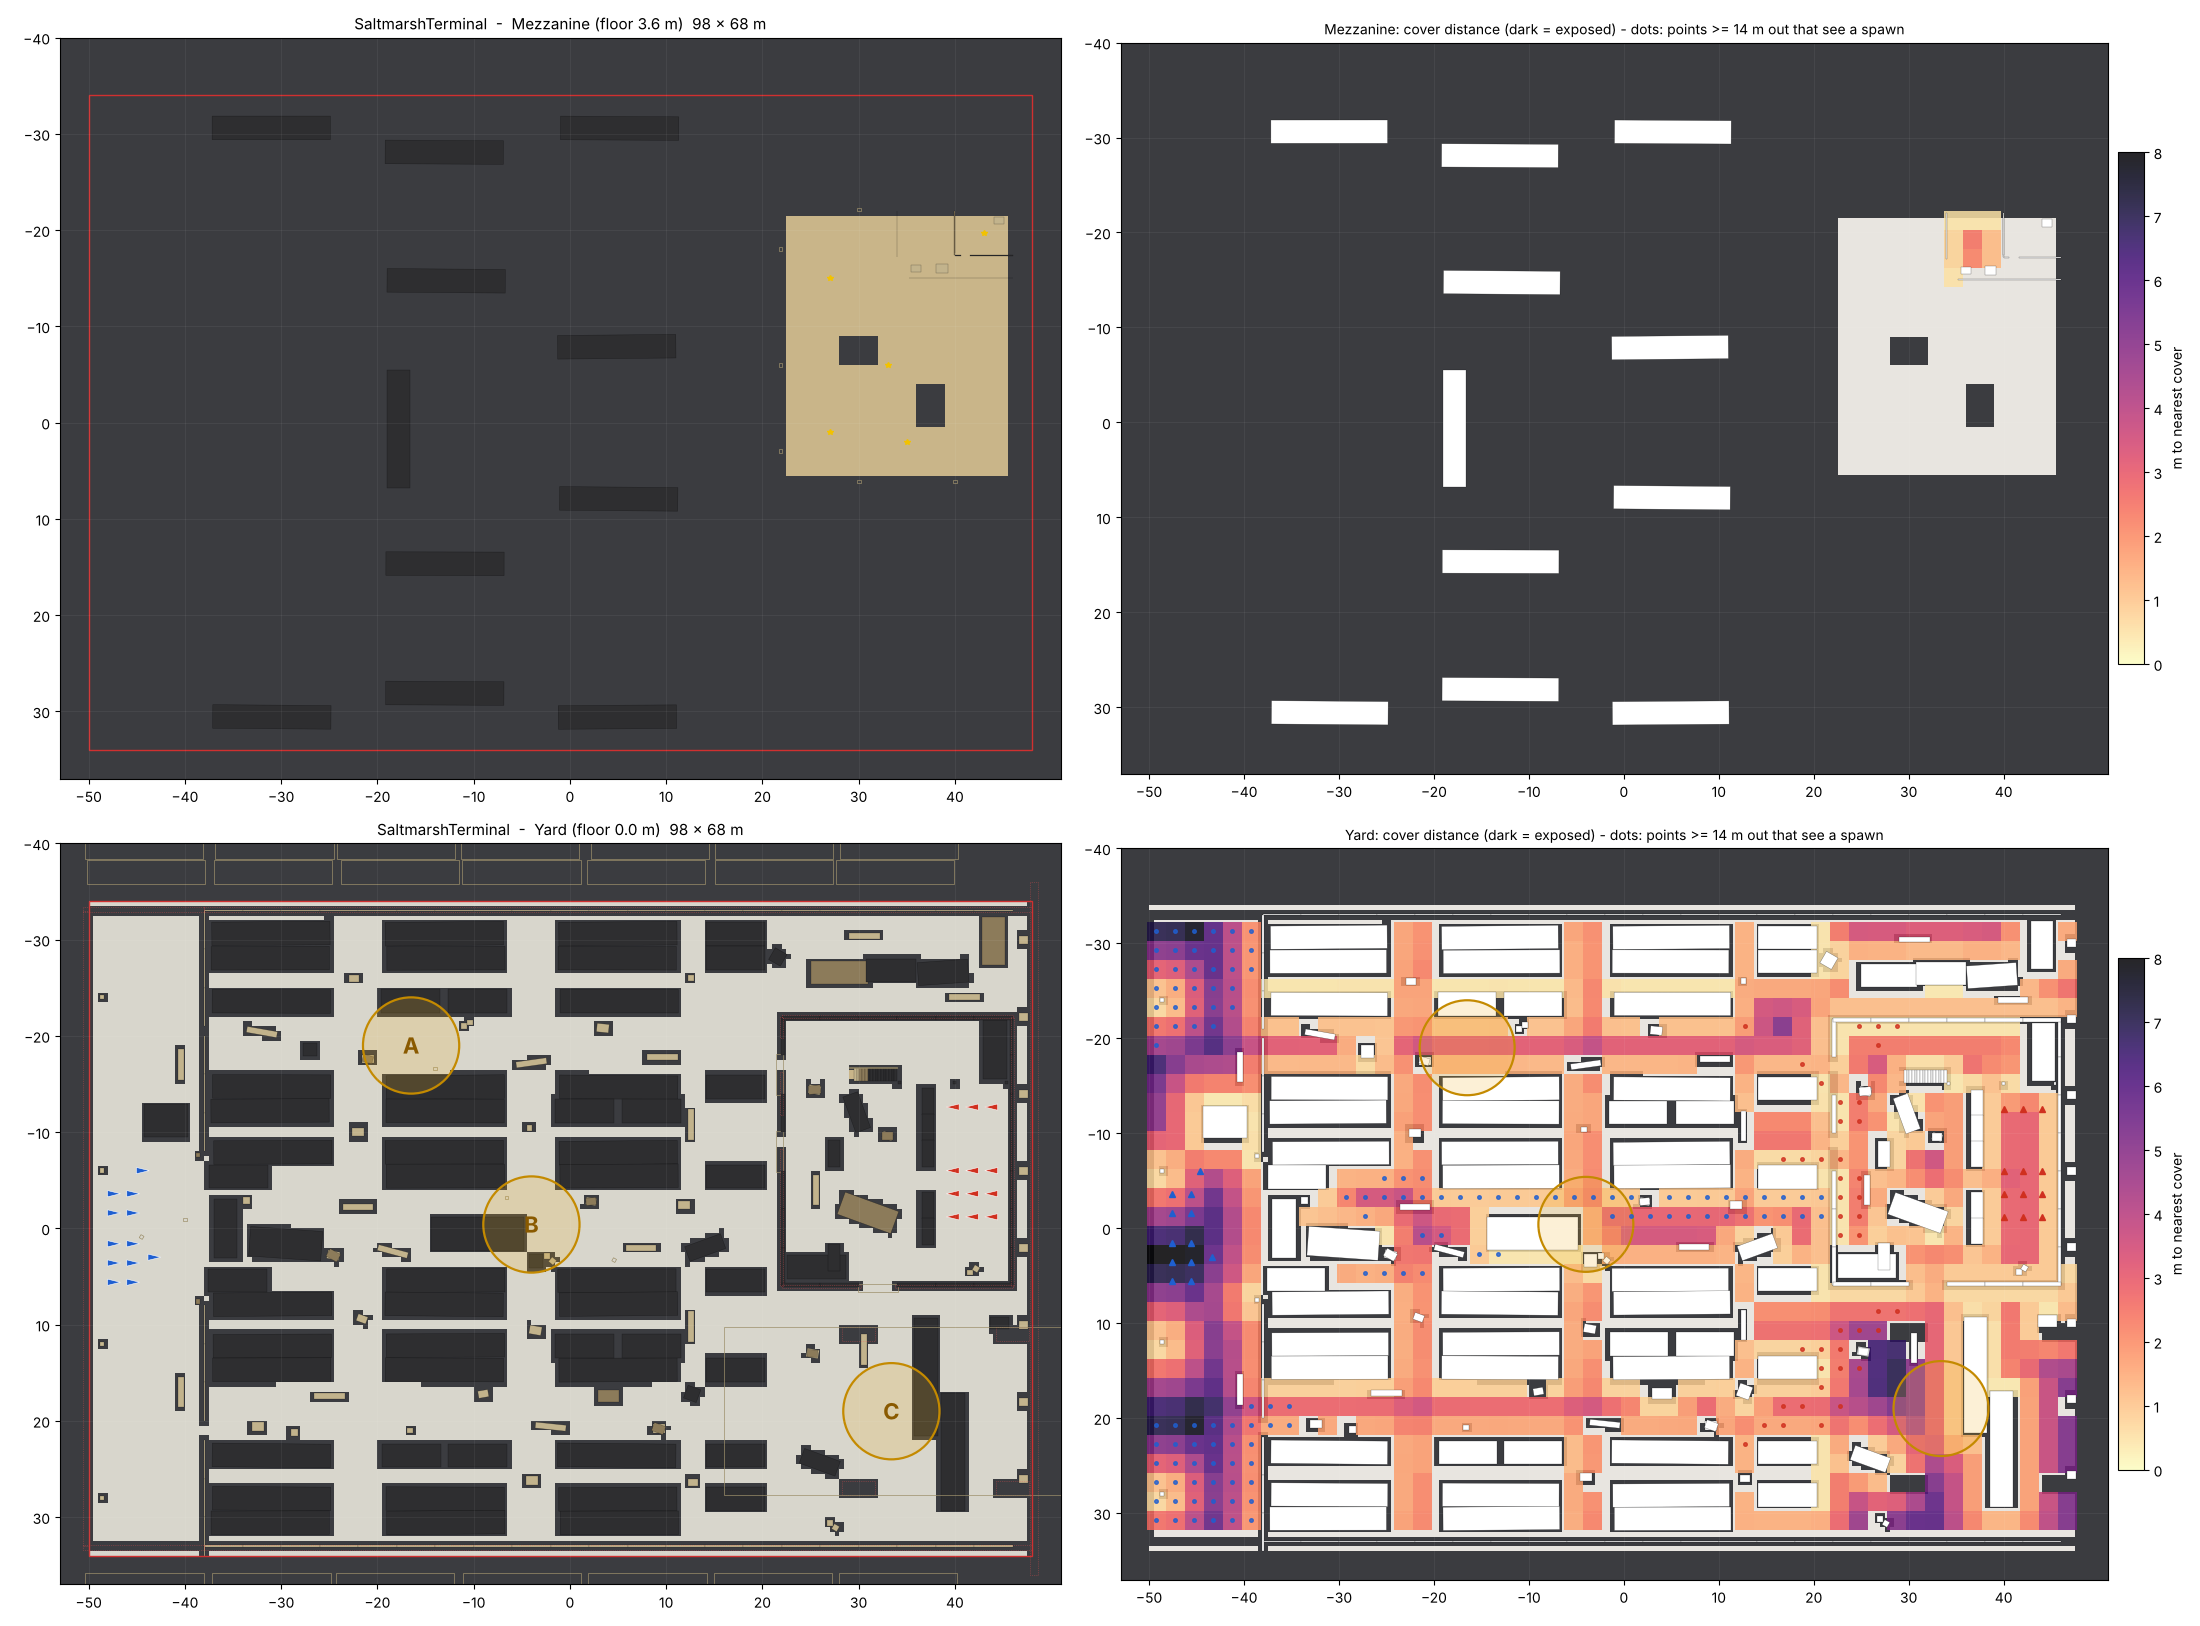
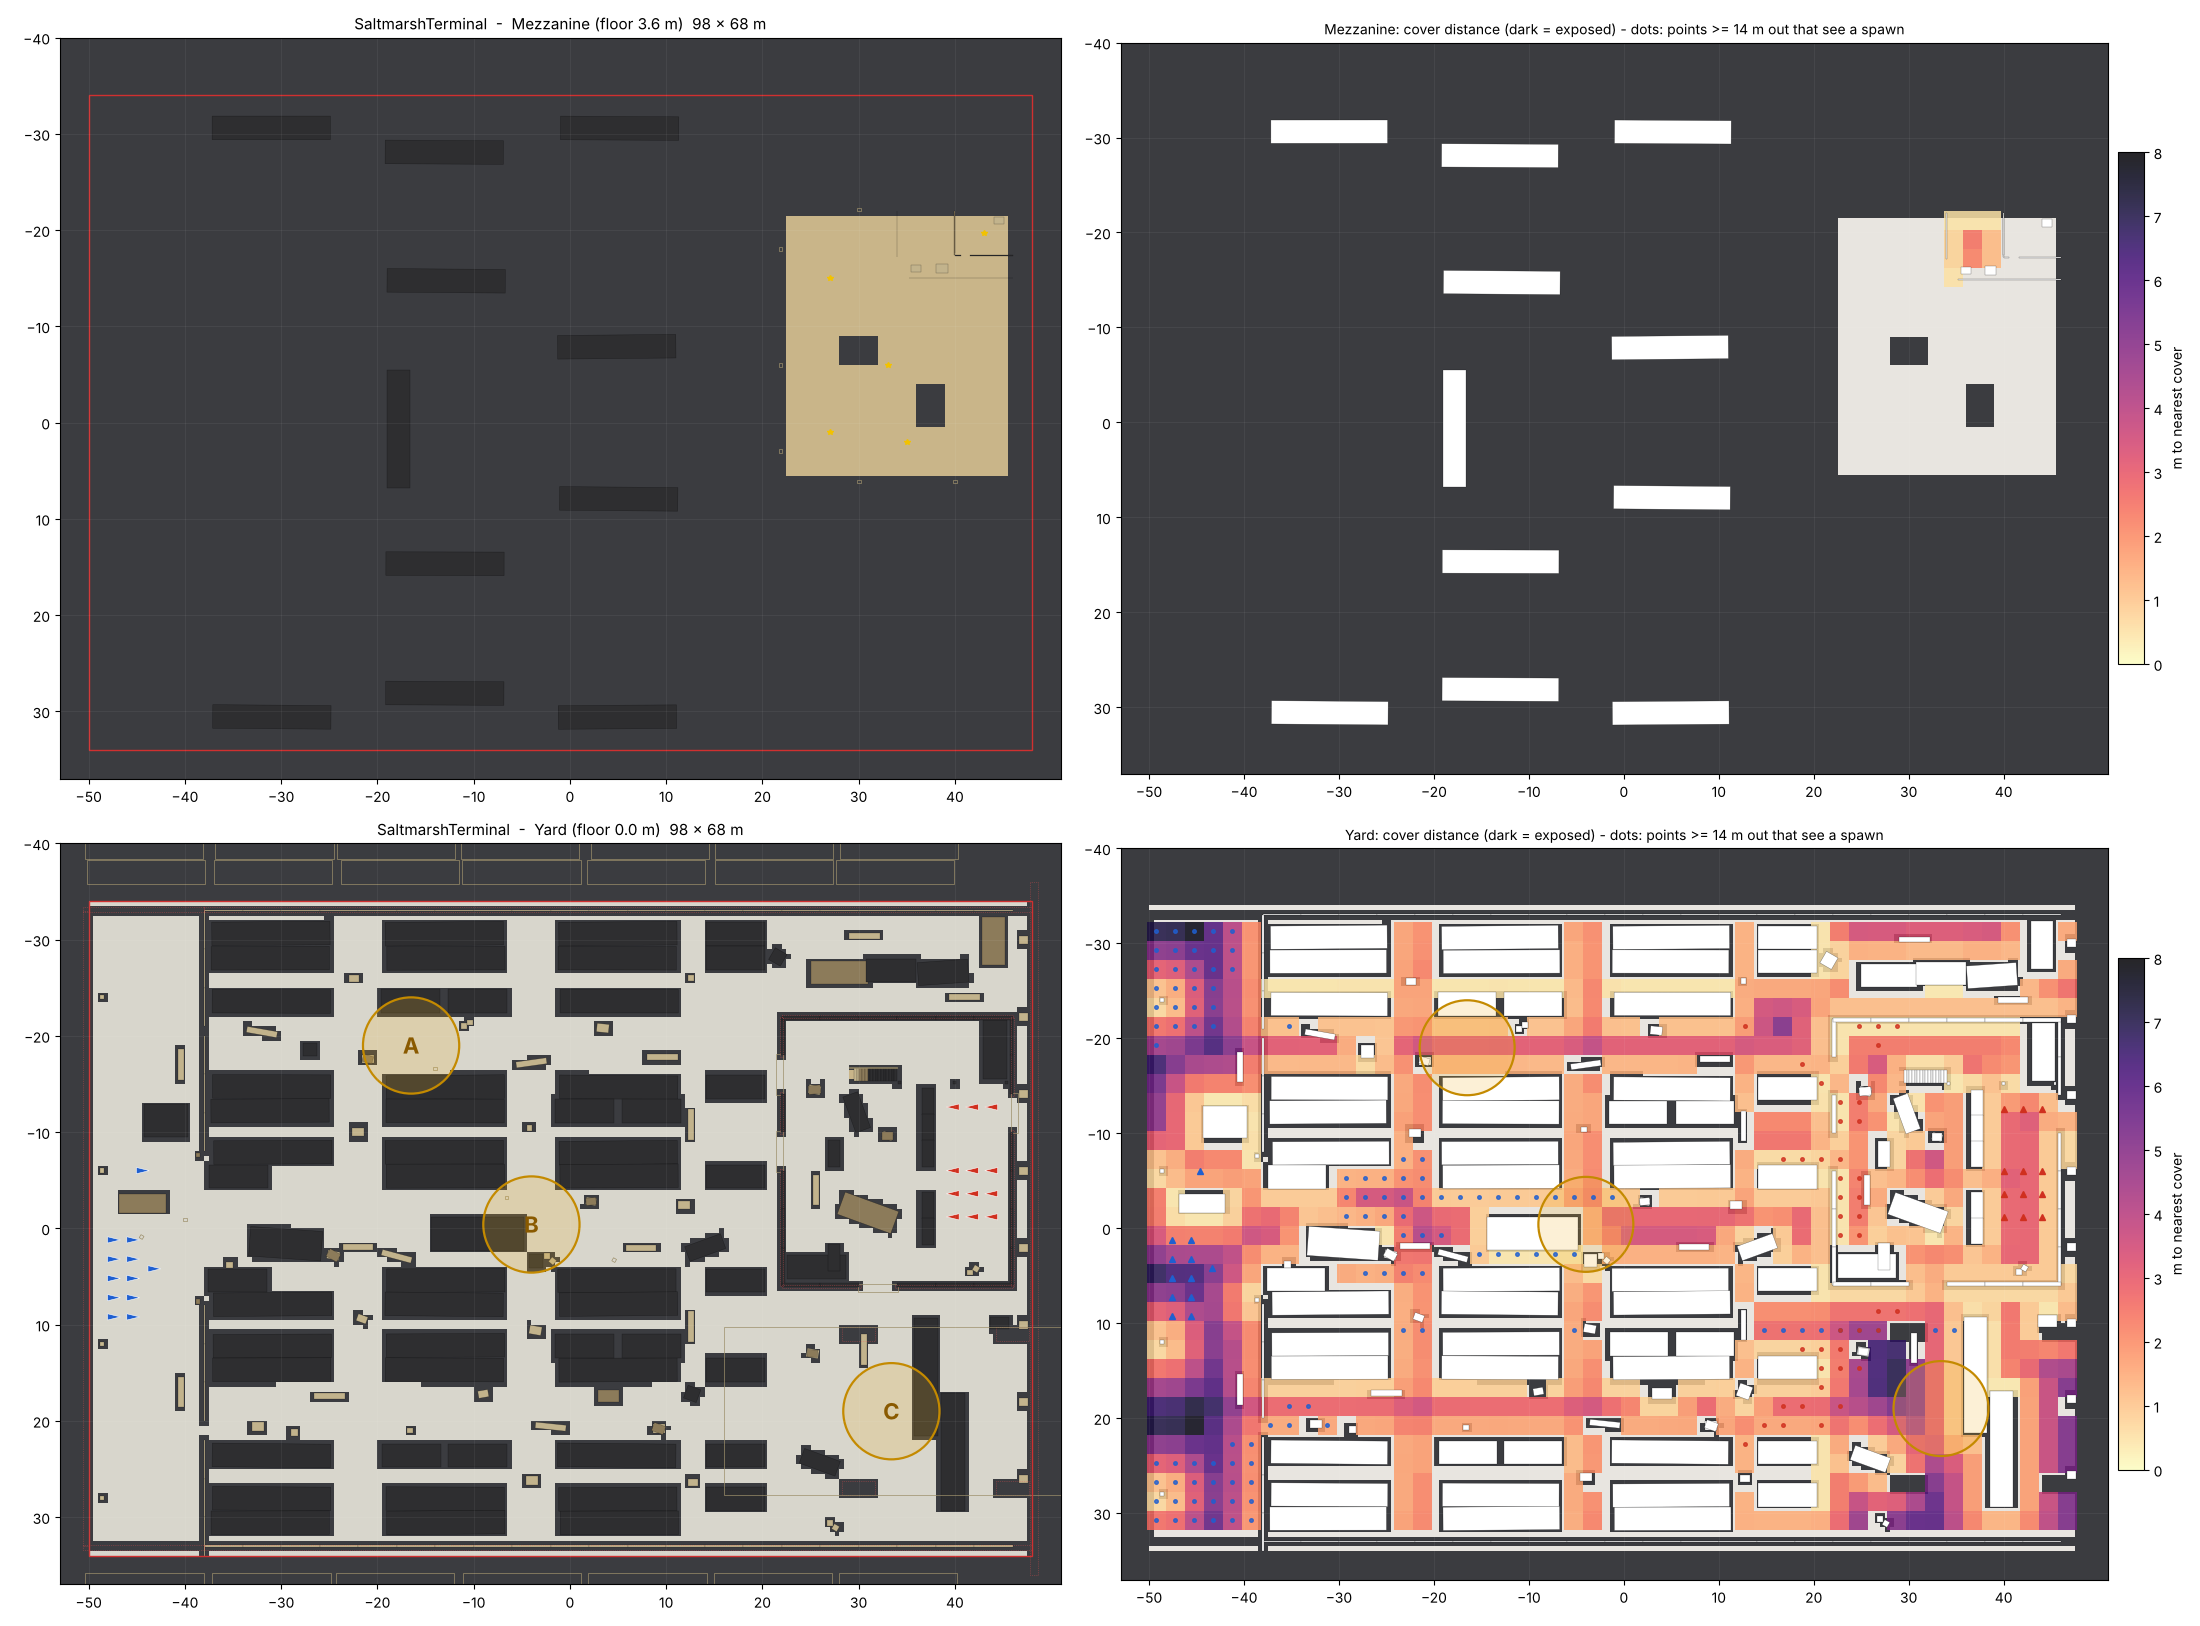
WIP: agents in progress
Claude-Session: https://claude.ai/code/session_0118nFYumEjG82mLGbGwmWwA

diff --git a/Content/Python/airsoft_setup_lib/layout_harbor.py b/Content/Python/airsoft_setup_lib/layout_harbor.py
@@ -216,11 +216,15 @@ def build(L=None):
     # Blue / Andrew starts on the gate apron (the first one is Andrew's story start beside the booth)
     starts = [(-44.6, -6.0)]
     for x in (-47.6, -45.6):
-        for y in (-3.6, -1.6, 1.6, 3.6, 5.6):
+        for y in (1.2, 3.2, 5.2, 7.2, 9.2):
             starts.append((x, y))
-    starts.append((-43.4, 3.0))
+    starts.append((-43.4, 4.2))
     for (x, y) in starts:
         it.append(L.start(x, y, "Blue", 0.0))
+    # Andrew's '69 Fastback beside the booth, nose east down the gate lane. The ending camera drives it off: the
+    # strip y -3.6..-1.6 stays clear for 30 m ahead (through the gate, under the barrier arm's tip, down the
+    # central lane's north edge to x -12). Tagged "Car_Hero" (+ "Car_Hero_Gate") for the cutscene code.
+    it.append(prop("Car_Hero", -44.4, -2.6, 0.0, 0.0, tint="HeroGunmetal", pieces=PARKED, tags=["Car_Hero", "Car_Hero_Gate"]))
 
     # ---------------------------------------------------------------- yard containers + lane cover
     it += _container_stacks(L, rng)
@@ -308,16 +312,14 @@ def _lane_cover(L, rng):
     # the box hangs under the spreader (SpreaderBottom: local +X 7.8 m, z 5.82 m; yaw 180 puts it at -X), across
     # the lane with 3.2 m of headroom under it
     it.append(prop("Harbor_Container40", rs_x - 7.8, rs_y, 5.82 - C40_H, 90.0, tint="Rust"))
-    # a 20 ft box parked across the lane mouth inside the gate: screens the gate apron from the length of the lane
-    it.append(prop("Container_20ft", -35.8, 0.0, 0.0, 90.0, tint="Sand"))
     it += [prop("BoxTruck", -29.5, 1.6, 0.0, 4.0, tint="Grey", pieces=PARKED),
-           prop("Garage_JerseyBarrier", -22.0, -2.2, 0.0, 0.0), prop("Garage_JerseyBarrier", -18.4, 2.4, 0.0, 15.0),
+           prop("Garage_JerseyBarrier", -22.0, 1.9, 0.0, 0.0), prop("Garage_JerseyBarrier", -18.0, 2.9, 0.0, 15.0),
            prop("PalletStack", -24.6, 2.8, 0.0, 12.0), prop("PalletStack", -24.6, 2.8, 0.58, 30.0),
            prop("OilDrum", -2.4, 2.9, 0.0, 0.0, tint="Red"), prop("OilDrum", -1.8, 3.4, 0.0, 40.0, tint="Red"),
            prop("Crate_Wood", 2.2, -2.8, 0.0, 8.0), prop("Crate_Wood", 2.2, -2.8, 0.62, -6.0),
            prop("Garage_JerseyBarrier", 7.4, 2.0, 0.0, 0.0), prop("PalletStack", 11.8, -2.4, 0.0, 0.0),
            prop("Harbor_Forklift", 14.6, 1.8, 0.0, 160.0), prop("Garage_Cone", -6.6, -3.2, 0.0, 0.0),
-           prop("Garage_Cone", 4.6, 3.3, 0.0, 30.0), prop("TireStack", -33.6, -2.9, 0.0, 0.0)]
+           prop("Garage_Cone", 4.6, 3.3, 0.0, 30.0), prop("TireStack", -35.4, 3.8, 0.0, 0.0)]
     # north lane (y -22..-16)
     it += [prop("Garage_JerseyBarrier", -32.0, -20.4, 0.0, 10.0), prop("PalletStack", -21.0, -17.6, 0.0, 0.0),
            prop("Crate_Wood", -21.0, -17.6, 0.58, 15.0), prop("OilDrum", -11.0, -21.0, 0.0, 0.0, tint="Blue"),
@@ -355,14 +357,16 @@ def _warehouse(L, rng):
     it = []
     x0, x1, y0, y1 = WH_X0, WH_X1, WH_Y0, WH_Y1
     it.append(slab(x0, y0, x1, y1, -0.05, 0.02, "ConcreteFloor", name="ShedFloor", tint="Grey"))
-    # west wall (yard side, outside = -X): 7 bays, roller doors at bays 1 and 3 (y -18, -10)
+    # west wall (yard side, outside = -X): 7 bays, roller doors at bays 1 and 3 (y -16, -8)
     for i in range(7):
         yc = y0 + 2.0 + i * 4.0
         aid = "Harbor_RollerDoor" if i in (1, 3) else "Harbor_CladdingPanel_4m"
         it.append(prop(aid, x0, yc, 0.0, 180.0, tint=None if aid == "Harbor_RollerDoor" else "Teal"))
-    # east wall (quay side, outside = +X): solid
+    # east wall (quay side, outside = +X): the Keeper's way out, a roller door at bay 2 (y -12) onto the quay and
+    # the freighter's gangway
     for i in range(7):
-        it.append(prop("Harbor_CladdingPanel_4m", x1, y0 + 2.0 + i * 4.0, 0.0, 0.0, tint="Teal"))
+        aid = "Harbor_RollerDoor" if i == 2 else "Harbor_CladdingPanel_4m"
+        it.append(prop(aid, x1, y0 + 2.0 + i * 4.0, 0.0, 0.0, tint=None if aid == "Harbor_RollerDoor" else "Teal"))
     # north / south walls (outside = -Y / +Y): 6 bays; a roller door on the south side (to the crane apron)
     for i in range(6):
         xc = x0 + 2.0 + i * 4.0
@@ -388,9 +392,10 @@ def _warehouse(L, rng):
             else:
                 res.append(blocker(s0, fixed - 0.15, s1, fixed + 0.15, zb, 14.0))
         return res
-    it += wall_block("y", x0, y0, y1, [(-19.8, -16.2), (-11.8, -8.2)])
+    it += wall_block("y", x0, y0, y1, [(-17.8, -14.2), (-9.8, -6.2)])
+    it += wall_block("y", x1, y0, y1, [(-13.8, -10.2)])
     it += wall_block("x", y1, x0, x1, [(30.2, 33.8)])
-    it += [blocker(x1 - 0.15, y0, x1 + 0.15, y1, 0.0, 14.0), blocker(x0, y0 - 0.15, x1, y0 + 0.15, 0.0, 14.0)]
+    it += [blocker(x0, y0 - 0.15, x1, y0 + 0.15, 0.0, 14.0)]
     # trusses every 4 m (span along X, scaled to 24 m) and the roof: sheets with two broken gaps over the
     # floor (rain falls through; the key light shafts in through the east gap)
     for i in range(8):
@@ -457,12 +462,18 @@ def _warehouse(L, rng):
     it += [prop("Crate_Wood", 36.0, -16.0, MEZ_Z, 0.0), prop("PalletStack", 38.6, -16.0, MEZ_Z, 0.0)]
 
     # --- lighting inside: the hard key through the east roof gap, four hanging work lamps (unshadowed), neon
-    it.append(L.light("spot", 37.6, -1.6, roof_z + 2.6, pitch=-70.0, yaw=200.0, color=(0.6, 0.82, 1.0), cd=900.0,
-                      radius=26.0, cone=(10, 18), shadows=True, vol=4.0, src=4.0))
-    for (x, y) in ((27.0, -15.0), (27.0, 1.0), (33.0, -6.0), (35.0, 2.0)):
+    it.append(L.light("spot", 37.6, -1.6, roof_z + 2.6, pitch=-70.0, yaw=200.0, color=(0.6, 0.82, 1.0), cd=2600.0,
+                      radius=26.0, cone=(8, 14), shadows=True, vol=6.0, src=3.0))
+    # backlight: a quay flood outside the open east door throws sodium into the haze (the Keeper's exit), and a
+    # red beacon over the door
+    it += [L.light("spot", x1 + 1.6, -12.0, 4.2, pitch=-12.0, yaw=180.0, color="Sodium", cd=90.0, radius=24.0,
+                   cone=(22, 40), shadows=False, vol=4.0, src=25.0),
+           L.box(x1 - 0.2, -12.0, 5.6, 0.25, 0.25, 0.25, "Emissive:Red", glow=40.0, coll=False, cast=False, name="DoorBeacon"),
+           L.light("point", x1 - 0.5, -12.0, 5.4, color="Red", cd=2.0, radius=8.0, shadows=False, src=10.0, vol=2.0)]
+    for (x, y) in ((27.0, -15.0), (27.0, 1.0)):
         it += [L.box(x, y, 6.2, 0.5, 0.5, 0.25, "PaintedSteel", tint="Black", coll=False, name="WorkLamp"),
-               L.box(x, y, 6.06, 0.42, 0.42, 0.02, "Emissive:Sodium", glow=18.0, coll=False, cast=False, name="WorkLampLens"),
-               L.light("point", x, y, 5.9, color="Sodium", cd=8.0, radius=9.0, shadows=False, src=20.0)]
+               L.box(x, y, 6.06, 0.42, 0.42, 0.02, "Emissive:Sodium", glow=6.0, coll=False, cast=False, name="WorkLampLens"),
+               L.light("point", x, y, 5.9, color="Sodium", cd=4.0, radius=8.0, shadows=False, src=20.0)]
     it += [L.text(x0 - 0.12, -14.0, 6.6, 180.0, "SHED  7", size=70.0, color="Cyan", glow=5.0),
            L.box(x0 - 0.1, -8.0, WH_H - 0.25, 0.06, 27.6, 0.06, "Emissive:Teal", glow=10.0, coll=False, cast=False,
                  name="NeonEaves"),
@@ -513,6 +524,21 @@ def _ship(L, rng):
                 it.append(L.slab(52.94, y, 53.0, y + 1.0, z, z + 1.0, "Emissive:Warm", glow=rng.uniform(1.5, 3.0), coll=False,
                                  cast=False, name="Porthole"))
     it.append(L.slab(50.94, 40.4, 51.0, 43.6, 25.0, 26.4, "Emissive:Cool", glow=2.5, coll=False, cast=False, name="BridgeGlass"))
+    # the gangway the Keeper runs for: an accommodation ladder up the hull from the quay opposite Shed 7's east door
+    ax, ay, az, bx, by, bz = 49.0, -15.0, 0.3, 51.6, -5.0, 9.0
+    run = math.hypot(bx - ax, by - ay)
+    yaw = math.degrees(math.atan2(by - ay, bx - ax))
+    pitch = -math.degrees(math.atan2(bz - az, run))
+    ln = math.hypot(run, bz - az)
+    it += [L.box((ax + bx) / 2, (ay + by) / 2, (az + bz) / 2, ln, 1.0, 0.12, "DiamondPlate", yaw=yaw, pitch=pitch, coll=False,
+                 name="Gangway"),
+           L.box((ax + bx) / 2, (ay + by) / 2, (az + bz) / 2 + 0.9, ln, 0.05, 0.05, "PaintedSteel", tint="White", yaw=yaw,
+                 pitch=pitch, coll=False, name="GangwayRail"),
+           L.slab(51.0, -6.2, 52.6, -3.8, 8.9, 9.05, "DiamondPlate", coll=False, name="GangwayHead"),
+           L.box(52.2, -5.0, 11.2, 0.5, 0.35, 0.3, "Emissive:Sodium", glow=30.0, coll=False, cast=False, name="DeckFlood"),
+           L.light("spot", 52.0, -5.0, 11.0, pitch=-60.0, yaw=200.0, color="Sodium", cd=40.0, radius=16.0, cone=(35, 60),
+                   shadows=False, vol=1.5),
+           L.box(48.6, -15.6, 2.4, 0.3, 0.3, 0.3, "Emissive:Red", glow=20.0, coll=False, cast=False, name="GangwayBeacon")]
     for (x, y, z, c) in ((52.0, 63.0, 9.6, "Red"), (59.0, 48.0, 33.4, "Red"), (59.0, -94.0, 10.0, "White")):
         it.append(L.box(x, y, z, 0.35, 0.35, 0.35, "Emissive:" + c, glow=30.0, coll=False, cast=False, name="NavLight"))
     return it
